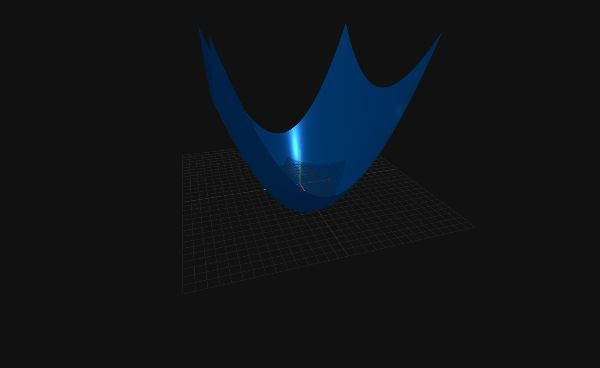
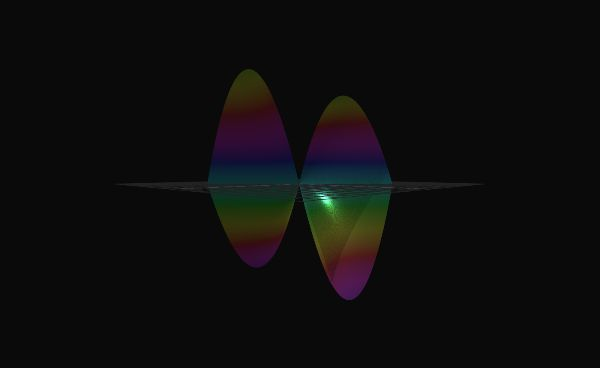
fix: 删除重复的 mathVisual 记录

Changed region(s): [[0.33, 0.0598, 0.75, 0.837]]

diff --git a/js/data.js b/js/data.js
@@ -1153,14 +1153,6 @@ const threejsData = {
               url: "examples/z258/application-measureTool",
             },
             {
-              id: "application-mathVisual",
-              title: "数学函数可视化",
-              description: "3D数学函数可视化，展示6种数学函数生成的3D曲面",
-              thumbnail: "images/application-mathVisual.jpg",
-              version: "r179",
-              url: "examples/z258/application-mathVisual",
-            },
-            {
               id: "shader-audioSolutions",
               title: "音乐可视化",
               description:
